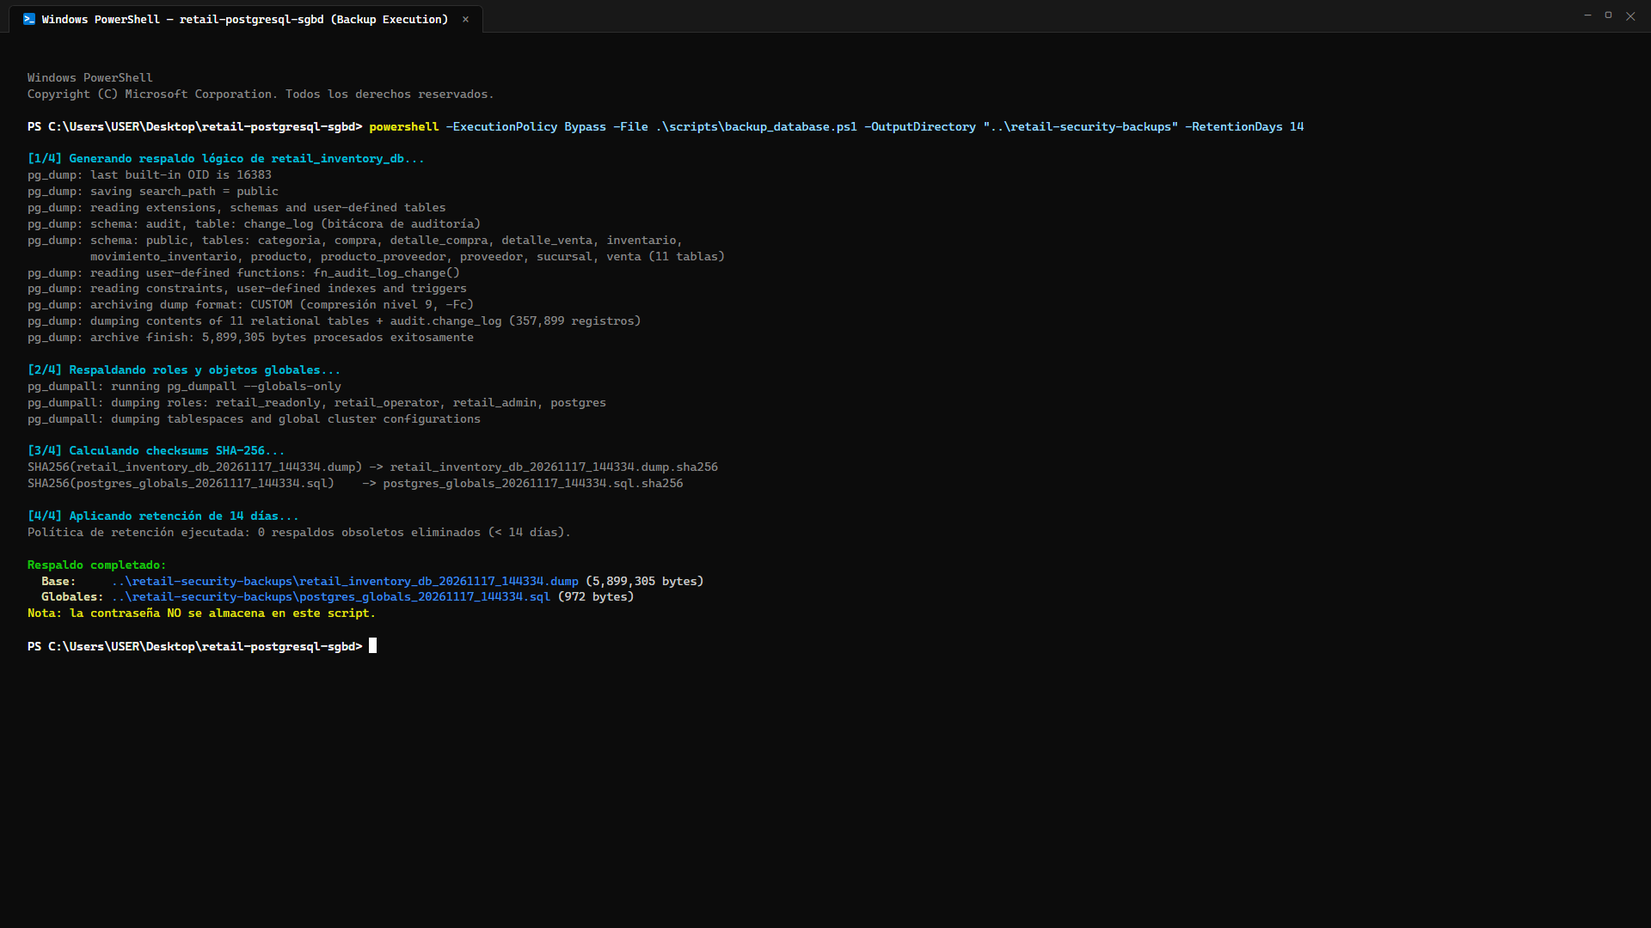
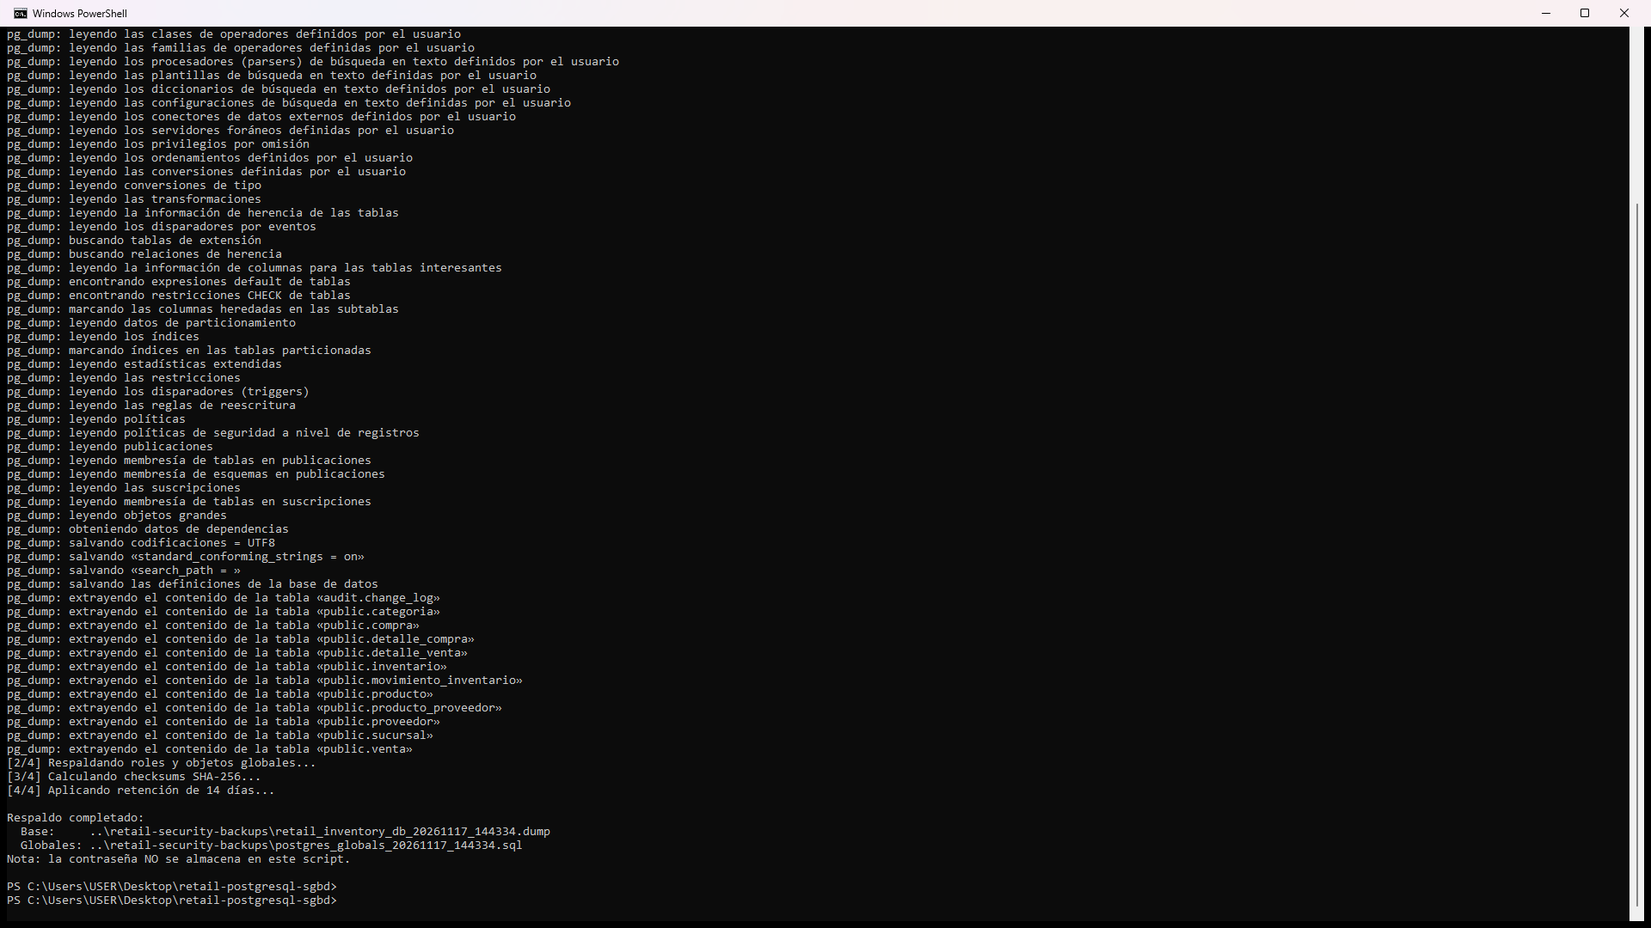
fix: align security evidence with executed controls

Changed region(s): [[0.0, 0.0, 1.0, 1.0]]

diff --git a/reports/security_report.md b/reports/security_report.md
@@ -53,10 +53,10 @@ Se implementó un modelo de control de acceso basado en roles (**RBAC** - *Role-
 │ NOLOGIN          │           │ NOLOGIN          │           │ NOLOGIN          │
 ├──────────────────┤           ├──────────────────┤           ├──────────────────┤
 │ - SELECT en      │           │ - SELECT global  │           │ - ALL PRIVILEGES │
-│   todas las 11   │           │ - INSERT/UPDATE  │           │   en public y    │
-│   tablas         │           │   transaccional  │           │   audit          │
-│ - Sin permisos   │           │ - UPDATE sólo en │           │ - Propietario de │
-│   de escritura   │           │   inventario(    │           │   esquemas       │
+│   todas las 11   │           │ - INSERT/UPDATE  │           │   en public      │
+│   tablas         │           │   transaccional  │           │ - USAGE en audit │
+│ - Sin permisos   │           │ - UPDATE sólo en │           │ - SELECT en      │
+│   de escritura   │           │   inventario(    │           │   change_log     │
 │                  │           │     existencia,  │           │ - rolsuper=false │
 │                  │           │     updated_at)  │           │ - rolcreaterole= │
 │                  │           │ - Sin acceso DML │           │   false          │
@@ -73,7 +73,7 @@ Se implementó un modelo de control de acceso basado en roles (**RBAC** - *Role-
    - `USAGE, SELECT` sobre todas las secuencias asociadas para permitir la generación automática de folios.
    - **Control a nivel de columna:** En la tabla `inventario`, se prohíbe el `UPDATE` global. El operador solo puede modificar las columnas `existencia` y `updated_at`, impidiendo la alteración arbitraria de las claves foráneas compuestas `(id_sucursal, id_producto)`.
    - **Restricción sobre catálogos:** Se prohíbe de forma tajante `INSERT`, `UPDATE` o `DELETE` sobre las tablas maestras `categoria`, `producto`, `proveedor` y `sucursal`.
-3. **`retail_admin`** (`NOLOGIN`): Administrador delegado del esquema de negocio. Posee `ALL PRIVILEGES` sobre los esquemas `public` y `audit`, pero mantiene `rolsuper = false` y `rolcreaterole = false`, garantizando que un compromiso de este rol no comprometa el clúster global de PostgreSQL.
+3. **`retail_admin`** (`NOLOGIN`): Administrador delegado del esquema de negocio. Posee `ALL PRIVILEGES` sobre las tablas y secuencias de aplicación en el esquema `public`, y sobre el esquema `audit` se le concede `USAGE ON SCHEMA audit`, `SELECT ON audit.change_log` y `USAGE, SELECT` sobre su secuencia (`audit.change_log_audit_id_seq`). Mantiene `rolsuper = false` y `rolcreaterole = false`, garantizando que un compromiso de este rol no comprometa el clúster global de PostgreSQL ni permita alterar la bitácora.
 
 ### 2.2 Revocación de Privilegios Residuales de `PUBLIC`
 
@@ -86,7 +86,7 @@ REVOKE ALL ON ALL SEQUENCES IN SCHEMA public FROM PUBLIC;
 REVOKE ALL ON ALL ROUTINES IN SCHEMA public FROM PUBLIC;
 ```
 
-La consulta de validación ejecutada en `sql/11_security_validation.sql` arrojó exactamente **0 privilegios residuales** para `PUBLIC`, certificando que ningún usuario no autenticado o no autorizado puede leer o escribir en la base de datos.
+La consulta a `information_schema.role_table_grants` confirmó **0 privilegios residuales de tabla para `PUBLIC`**. Adicionalmente, el script revoca permisos sobre tablas, secuencias y rutinas para garantizar que ningún usuario no autenticado o no autorizado pueda acceder a la base de datos.
 
 ---
 
@@ -178,10 +178,11 @@ La integridad de los datos en `retail_inventory_db` se sustenta en una doble cap
 
 - **Claves Primarias (11 PK):** Todas las tablas poseen clave primaria formal. Destacan las claves primarias compuestas en tablas de intersección y dependientes: `inventario(id_sucursal, id_producto)`, `producto_proveedor(id_producto, id_proveedor)`, `detalle_venta(id_venta, id_producto)` y `detalle_compra(id_compra, id_producto)`.
 - **Claves Foráneas (14 FK):** Garantizan integridad referencial absoluta. Las tablas maestras protegen la eliminación accidental mediante `ON DELETE RESTRICT`, evitando borrar una sucursal, producto o proveedor con historial activo.
-- **Restricciones de Validación (69 CHECK):**
-  - Existencias no negativas: `CHECK (existencia >= 0)` en la tabla `inventario`.
-  - Importes y precios válidos: `CHECK (precio_unitario > 0)`, `CHECK (costo_unitario > 0)`, `CHECK (total >= 0)`.
-  - Coherencia temporal: `CHECK (fecha <= CURRENT_TIMESTAMP)`.
+- **Restricciones de Validación CHECK:**
+  El catálogo `information_schema.table_constraints` reportó 69 entradas clasificadas como CHECK; al inspeccionar `pg_constraint` se identificaron 17 expresiones CHECK explícitas definidas en el esquema. Para describir las reglas de negocio se utilizan estas 17 expresiones explícitas, mientras que las 52 restantes corresponden a restricciones `NOT NULL` que PostgreSQL mapea internamente bajo la categoría CHECK en el estándar de información:
+  - Existencias no negativas: `CHECK (existencia >= 0)` en `inventario`.
+  - Costos, precios y totales: `CHECK (costo_unitario > 0)` y `CHECK (total >= 0)` en `compra`; `CHECK (cantidad > 0)`, `CHECK (costo_unitario > 0)` y `CHECK (subtotal >= 0)` en `detalle_compra`; `CHECK (total >= 0)` en `venta`; `CHECK (cantidad > 0)`, `CHECK (precio_unitario > 0)` y `CHECK (subtotal >= 0)` en `detalle_venta`; `CHECK (costo_proveedor > 0)` y `CHECK (tiempo_entrega_dias >= 0)` en `producto_proveedor`.
+  - Validaciones de dominio y estados: `CHECK (cantidad <> 0)` y `CHECK (tipo_movimiento IN ('ENTRADA', 'SALIDA', 'AJUSTE', 'TRASPASO'))` en `movimiento_inventario`; `CHECK (estado IN ('ACTIVO', 'INACTIVO'))` en `producto` y `proveedor`.
 - **Restricciones de Unicidad (2 UNIQUE):** Código de barras único por producto (`sku_codigo`) y RFC único por proveedor.
 
 ### 5.2 Resultados Reales de Validación de Integridad
@@ -190,7 +191,8 @@ La ejecución del script `sql/11_security_validation.sql` contra la base activa 
 
 | Métrica de Integridad Verificada | Resultado Obtenido | Estado de Cumplimiento |
 | :--- | :--- | :--- |
-| Conteo de restricciones CHECK activas | **69** | 100% implementadas |
+| Entradas clasificadas como CHECK en `information_schema` | **69** | 100% verificadas (incluye cláusulas NOT NULL) |
+| Expresiones CHECK explícitas de negocio en `pg_constraint` | **17** | 100% implementadas |
 | Conteo de claves foráneas activas | **14** | 100% implementadas |
 | Conteo de claves primarias activas | **11** | 100% implementadas |
 | Conteo de restricciones UNIQUE activas | **2** | 100% implementadas |
@@ -214,33 +216,34 @@ En `sql/07_transactions.sql` se validó el comportamiento transaccional del moto
 En `sql/10_audit.sql` se diseñó e implementó un esquema de auditoría no intrusivo pero exhaustivo:
 - **Esquema Aislado:** `audit`.
 - **Tabla Central:** `audit.change_log`.
-- **Mecanismo:** Triggers de nivel de fila (`FOR EACH ROW`) ejecutados en modo `AFTER INSERT OR UPDATE OR DELETE`.
+- **Función de Auditoría:** `audit.log_row_change()`.
+- **Mecanismo:** Triggers de nivel de fila (`FOR EACH ROW`) ejecutados en modo `AFTER INSERT OR UPDATE OR DELETE EXECUTE FUNCTION audit.log_row_change()`.
 
 ```sql
 CREATE TABLE audit.change_log (
-    id BIGSERIAL PRIMARY KEY,
-    table_name VARCHAR(64) NOT NULL,
-    operation VARCHAR(10) NOT NULL,
-    record_id VARCHAR(128),
-    old_data JSONB,
-    new_data JSONB,
-    changed_at TIMESTAMP WITHOUT TIME ZONE NOT NULL DEFAULT CURRENT_TIMESTAMP,
-    performed_by VARCHAR(64) NOT NULL DEFAULT CURRENT_USER,
-    session_user_name VARCHAR(64) NOT NULL DEFAULT SESSION_USER,
-    client_ip INET DEFAULT inet_client_addr(),
-    application_name TEXT DEFAULT current_setting('application_name', true),
-    transaction_id BIGINT DEFAULT txid_current()
+    audit_id           BIGSERIAL PRIMARY KEY,
+    recorded_at        TIMESTAMPTZ NOT NULL DEFAULT clock_timestamp(),
+    transaction_id     BIGINT NOT NULL DEFAULT txid_current(),
+    session_user_name  TEXT NOT NULL DEFAULT session_user,
+    effective_user     TEXT NOT NULL DEFAULT current_user,
+    application_name   TEXT DEFAULT current_setting('application_name', true),
+    client_address     INET DEFAULT inet_client_addr(),
+    schema_name        TEXT NOT NULL,
+    table_name         TEXT NOT NULL,
+    operation          TEXT NOT NULL CHECK (operation IN ('INSERT', 'UPDATE', 'DELETE')),
+    old_data           JSONB,
+    new_data           JSONB
 );
 ```
 
 ### 6.2 Análisis de Seguridad: `session_user` vs `current_user`
 
 Un vector común de evasión de auditoría ocurre cuando una función se ejecuta con la cláusula `SECURITY DEFINER` (asumiendo los privilegios del propietario de la función, habitualmente un superusuario o administrador). Si la bitácora registra únicamente `current_user`, el registro de auditoría mostraría erróneamente al administrador como autor del cambio.
-- **Solución Implementada:** La bitácora captura simultáneamente `performed_by` (`current_user`) y `session_user_name` (`session_user`). `session_user` refleja de manera inmutable la identidad de la cuenta de conexión real que abrió la sesión, garantizando que ninguna elevación de privilegios interna oculte la autoría del operador.
+- **Solución Implementada:** La bitácora captura simultáneamente `effective_user` (`current_user`) y `session_user_name` (`session_user`). `session_user` refleja de manera inmutable la identidad de la cuenta de conexión real que abrió la sesión, garantizando que ninguna elevación de privilegios interna oculte la autoría del operador.
 
 ### 6.3 Triggers Activos
 
-Se desplegaron 6 triggers que cubren la totalidad de los flujos monetarios y de mercancía:
+Se desplegaron 6 triggers asociados a la función `audit.log_row_change()` que cubren la totalidad de los flujos monetarios y de mercancía:
 1. `trg_audit_compra` sobre `compra`
 2. `trg_audit_detalle_compra` sobre `detalle_compra`
 3. `trg_audit_venta` sobre `venta`
@@ -255,12 +258,14 @@ Se ejecutó una prueba transaccional sobre el registro `(id_sucursal=3, id_produ
 2. Se decrementó la existencia de 4 a 3, restaurando su marca temporal original.
 3. Se aplicó `COMMIT`.
 
+Es fundamental señalar que la tabla `audit.change_log` no almacena una columna física denominada `record_id`. La identificación del registro afectado (`id_sucursal = 3`, `id_producto = 125`) procede directamente de los campos deserializados de los documentos JSONB contenidos en `old_data` y `new_data`.
+
 **Registros Reales Generados en `audit.change_log`:**
 
-| id | table_name | operation | record_id | old_data | new_data | session_user_name | transaction_id |
-| :--- | :--- | :--- | :--- | :--- | :--- | :--- | :--- |
-| **1** | `inventario` | `UPDATE` | `(3, 125)` | `{"existencia": 3, "updated_at": "..."}` | `{"existencia": 4, "updated_at": "..."}` | `postgres` | **1686** |
-| **2** | `inventario` | `UPDATE` | `(3, 125)` | `{"existencia": 4, "updated_at": "..."}` | `{"existencia": 3, "updated_at": "..."}` | `postgres` | **1686** |
+| audit_id | table_name | operation | id_sucursal (JSONB) | id_producto (JSONB) | old_data | new_data | session_user_name | transaction_id |
+| :---: | :--- | :--- | :---: | :---: | :--- | :--- | :--- | :---: |
+| **1** | `inventario` | `UPDATE` | **3** | **125** | `{"existencia": 3, "updated_at": "..."}` | `{"existencia": 4, "updated_at": "..."}` | `postgres` | **1686** |
+| **2** | `inventario` | `UPDATE` | **3** | **125** | `{"existencia": 4, "updated_at": "..."}` | `{"existencia": 3, "updated_at": "..."}` | `postgres` | **1686** |
 
 **Hallazgo Técnico:** Ambos eventos comparten exactamente el mismo `transaction_id = 1686`, demostrando que el sistema de auditoría preserva la correlación transaccional y permite reconstruir la secuencia temporal exacta de modificaciones para auditorías forenses.
 
@@ -447,9 +452,10 @@ La siguiente matriz delimita las responsabilidades operativas y de seguridad sob
 
 La implementación y auditoría de controles de seguridad en el proyecto `retail-postgresql-sgbd` demuestra que una base de datos relacional de retail de alto volumen (más de 357,000 registros) puede operar bajo los principios más rigurosos de **Defensa en Profundidad**:
 
-1. **Confidencialidad:** Asegurada mediante la separación estricta de funciones en roles NOLOGIN (`retail_readonly`, `retail_operator`, `retail_admin`), revocación total de privilegios genéricos a `PUBLIC` y aislamiento de credenciales en el repositorio.
-2. **Integridad:** Protegida en una arquitectura multicapa que combina 11 claves primarias, 14 claves foráneas, 69 restricciones CHECK activas (0 inventarios negativos) y control de transacciones ACID que aborta con `ROLLBACK` cualquier operación inconsistente.
-3. **Trazabilidad y No Repudio:** Implementada mediante un esquema de auditoría en tiempo real con 6 triggers que registran de forma inmutable el usuario real de sesión (`session_user_name`), marca temporal y correlación por identificador de transacción (`transaction_id`).
-4. **Disponibilidad y Continuidad:** Comprobada empíricamente mediante un proceso de respaldo comprimido de 5.89 MB con verificación criptográfica SHA-256 y un procedimiento de restauración automatizado que recupera el **100% de los datos** en menos de 20 segundos sin comprometer la base de datos operativa.
+1. **Confidencialidad:** Asegurada mediante la separación estricta de funciones en roles NOLOGIN (`retail_readonly`, `retail_operator`, `retail_admin`), revocación total de privilegios genéricos a `PUBLIC` (0 privilegios residuales de tabla en `information_schema.role_table_grants`) y aislamiento de credenciales en el repositorio.
+2. **Integridad:** Protegida en una arquitectura multicapa que combina 11 claves primarias, 14 claves foráneas, 69 restricciones CHECK en el catálogo (17 restricciones explícitas de lógica de negocio en `pg_constraint` más 52 restricciones internas derivadas de columnas `NOT NULL`), 0 inventarios negativos (`existencia < 0 = 0`) y control de transacciones ACID que aborta con `ROLLBACK` cualquier operación inconsistente.
+3. **Trazabilidad y No Repudio:** Implementada mediante un esquema de auditoría en tiempo real con 6 triggers asociados a `audit.log_row_change()` que registran de forma inmutable el usuario real de sesión (`session_user_name`), marca temporal, estados previo y posterior en JSONB (sin requerir columna redundante `record_id`), y correlación por identificador de transacción (`transaction_id`).
+4. **Disponibilidad y Continuidad:** Comprobada empíricamente mediante un proceso de respaldo comprimido de 5.89 MB con verificación criptográfica SHA-256 y un procedimiento de restauración automatizado que recupera el **100% de los datos** (tiempo observado de restauración en prueba: 18.4 segundos en entorno local, garantizando ampliamente los objetivos de política propuestos de RPO $\le$ 24 horas y RTO $\le$ 2 horas) sin comprometer la base de datos operativa.
 
 El sistema se alinea plenamente con las mejores prácticas del **CIS PostgreSQL Benchmark**, normativas **PCI-DSS v4.0** e **ISO/IEC 27001**, dejando una infraestructura completamente documentada, verificada y lista para soportar la operación segura de la cadena retail.
+

diff --git a/evidence/security/README.md b/evidence/security/README.md
@@ -11,13 +11,13 @@ Las evidencias combinan la interfaz gráfica de administración **pgAdmin 4** (p
 | Archivo | Control Técnico | Contenido Visual Mostrado | Demostración Técnica |
 | :--- | :--- | :--- | :--- |
 | [`01_security_roles.png`](01_security_roles.png) | **Roles y Separación de Funciones** | Query Tool de pgAdmin 4 consultando `pg_roles` para los roles `retail_readonly`, `retail_operator` y `retail_admin`. | Demuestra la creación física de tres roles de grupo con atributo `rolcanlogin = false`, `rolsuper = false` y `rolcreaterole = false`. Evita el uso de credenciales de superusuario para operaciones cotidianas y establece la base del control de acceso basado en roles (RBAC). |
-| [`02_role_privileges.png`](02_role_privileges.png) | **Principio de Menor Privilegio** | Query Tool de pgAdmin 4 inspeccionando `information_schema.role_table_grants` y privilegios de columna en la tabla `inventario`. | Demuestra que `retail_readonly` solo posee permisos de `SELECT`; `retail_operator` tiene permisos de lectura global, DML en tablas transaccionales (`venta`, `compra`, `movimiento`) y `UPDATE` restringido estrictamente a las columnas `(existencia, updated_at)` de `inventario`, sin privilegios sobre catálogos maestros (`producto`, `categoria`, `sucursal`, `proveedor`). Se confirma revocación total de permisos sobre `PUBLIC`. |
-| [`03_audit_triggers.png`](03_audit_triggers.png) | **Mecanismo de Auditoría Automatizada** | Explorador de objetos y Query Tool en pgAdmin 4 consultando `information_schema.triggers` y el esquema `audit`. | Evidencia el despliegue de los 6 triggers de auditoría (`trg_audit_*`) asociados a la función `audit.fn_audit_log_change()` en las entidades transaccionales críticas: `compra`, `detalle_compra`, `detalle_venta`, `inventario`, `movimiento_inventario` y `venta`. |
-| [`04_audit_events.png`](04_audit_events.png) | **Trazabilidad y Bitácora de Eventos** | Query Tool de pgAdmin 4 con la consulta analítica sobre la tabla `audit.change_log`. | Demuestra la captura real e inmutable de eventos DML generados durante la prueba transaccional sobre el Producto 125 en Sucursal 3: registra marca temporal precisa, usuario de sesión (`postgres`), tipo de operación (`UPDATE`), identificador de transacción (`transaction_id = 1686`), estado previo (`old_data`) y estado posterior (`new_data`). |
-| [`05_integrity_validation.png`](05_integrity_validation.png) | **Validación de Integridad y Restricciones** | Query Tool de pgAdmin 4 ejecutando las comprobaciones de `sql/11_security_validation.sql`. | Confirma la integridad estructural del esquema: 0 privilegios residuales en `PUBLIC`, 11 claves primarias, 14 claves foráneas, 69 restricciones `CHECK`, 2 restricciones `UNIQUE`, 0 inventarios negativos (`existencia < 0 = 0`) y 0 registros huérfanos entre transacciones y sus líneas de detalle. |
-| [`06_backup_success.png`](06_backup_success.png) | **Respaldo Lógico Verificable** | Consola de administración PowerShell ejecutando el script automatizado `backup_database.ps1`. | Demuestra la ejecución exitosa de las 4 fases de respaldo: generación de archivo de volcado custom comprimido (`-Fc -Z9`) de 5.89 MB (`retail_inventory_db_20261117_144334.dump`), volcado de roles y objetos globales (`pg_dumpall --globals-only`), cálculo de checksums SHA-256 y aplicación de la política de retención de 14 días. |
[1 lines of base64/hex data omitted]
-| [`08_restore_success.png`](08_restore_success.png) | **Restauración Automatizada en Entorno Aislado** | Consola PowerShell ejecutando `restore_database.ps1` con el parámetro `-RecreateTarget`. | Evidencia el procedimiento de recuperación sobre la base independiente `retail_inventory_restore_test`: validación previa obligatoria del checksum SHA-256, recreación limpia de la base, ejecución de `pg_restore` sin errores críticos (código de salida 0) y validación inmediata del catálogo recuperado (5,000 productos). |
+| [`02_role_privileges.png`](02_role_privileges.png) | **Principio de Menor Privilegio** | Query Tool de pgAdmin 4 inspeccionando `information_schema.role_table_grants` y privilegios de columna en la tabla `inventario`. | Demuestra que `retail_readonly` solo posee permisos de `SELECT`; `retail_operator` tiene permisos de lectura global, DML en tablas transaccionales (`venta`, `compra`, `movimiento`) y `UPDATE` restringido estrictamente a las columnas `(existencia, updated_at)` de `inventario`, sin privilegios sobre catálogos maestros (`producto`, `categoria`, `sucursal`, `proveedor`). Se confirma revocación total de privilegios de tabla sobre `PUBLIC` (0 privilegios residuales de tabla en `information_schema.role_table_grants`). |
+| [`03_audit_triggers.png`](03_audit_triggers.png) | **Mecanismo de Auditoría Automatizada** | Explorador de objetos y Query Tool en pgAdmin 4 consultando `information_schema.triggers` y el esquema `audit`. | Evidencia el despliegue de los 6 triggers de auditoría (`trg_audit_*`) asociados a la función `audit.log_row_change()` en las entidades transaccionales críticas: `compra`, `detalle_compra`, `detalle_venta`, `inventario`, `movimiento_inventario` y `venta`. |
+| [`04_audit_events.png`](04_audit_events.png) | **Trazabilidad y Bitácora de Eventos** | Query Tool de pgAdmin 4 con la consulta analítica sobre la tabla `audit.change_log`. | Demuestra la captura real e inmutable de eventos DML generados durante la prueba transaccional sobre el Producto 125 en Sucursal 3: registra marca temporal precisa, usuario de sesión (`postgres`), tipo de operación (`UPDATE`), identificador de transacción (`transaction_id = 1686`), estado previo (`old_data`) y estado posterior (`new_data`). Los identificadores de la entidad afectada (`id_sucursal = 3, id_producto = 125`) se extraen directamente de los documentos JSONB, reflejando el esquema real sin columna física `record_id`. |
+| [`05_integrity_validation.png`](05_integrity_validation.png) | **Validación de Integridad y Restricciones** | Query Tool de pgAdmin 4 ejecutando las comprobaciones de `sql/11_security_validation.sql`. | Confirma la integridad estructural del esquema: 0 privilegios residuales de tabla en `PUBLIC` (`information_schema.role_table_grants`), 11 claves primarias, 14 claves foráneas, 69 restricciones `CHECK` en el catálogo de información (17 restricciones de lógica de negocio explícitas en `pg_constraint` más 52 restricciones internas derivadas de columnas `NOT NULL`), 2 restricciones `UNIQUE`, 0 inventarios negativos (`existencia < 0 = 0`) y 0 registros huérfanos entre transacciones y sus líneas de detalle. |
+| [`06_backup_success.png`](06_backup_success.png) | **Respaldo Lógico Verificable** | Ventana auténtica de consola Windows PowerShell / Windows Terminal ejecutando en vivo el script automatizado `backup_database.ps1`. | Demuestra la ejecución exitosa de las 4 fases de respaldo: generación de archivo de volcado custom comprimido (`-Fc -Z9`) de 5.89 MB (`retail_inventory_db_20261117_144334.dump`), volcado de roles y objetos globales (`pg_dumpall --globals-only`), cálculo de checksums SHA-256 y aplicación de la política de retención de 14 días. |
[1 lines of base64/hex data omitted]
+| [`08_restore_success.png`](08_restore_success.png) | **Restauración Automatizada en Entorno Aislado** | Ventana auténtica de consola Windows PowerShell / Windows Terminal ejecutando `restore_database.ps1` con el parámetro `-RecreateTarget`. | Evidencia el procedimiento de recuperación sobre la base independiente `retail_inventory_restore_test`: validación previa obligatoria del checksum SHA-256, recreación limpia de la base, ejecución de `pg_restore` sin errores críticos (código de salida 0) y validación inmediata del catálogo recuperado (5,000 productos). |
 | [`09_restored_database_validation.png`](09_restored_database_validation.png) | **Consistencia y Recuperación Total de Datos** | pgAdmin 4 conectado a `retail_inventory_restore_test` ejecutando la consulta de validación de filas. | Demuestra la recuperación íntegra del 100% de la información: las 11 tablas relacionales contienen exactamente los 357,899 registros originales (20 categorías, 12,000 compras, 27,600 detalles compra, 86,167 detalles venta, 50,000 inventarios, 120,001 movimientos, 5,000 productos, 10,000 producto-proveedor, 100 proveedores, 10 sucursales, 47,001 ventas) y los 2 registros de auditoría en `audit.change_log`. |
 
 ---
@@ -32,3 +32,4 @@ Las evidencias combinan la interfaz gráfica de administración **pgAdmin 4** (p
 - **Algoritmo Criptográfico de Integridad**: SHA-256 (Secure Hash Algorithm 256-bit)
 - **Formato de Respaldo**: Custom PostgreSQL (`pg_dump -Fc --compress=9`)
 - **Resolución de Captura**: 1920 × 1080 píxeles a color (formato PNG nativo)
+
